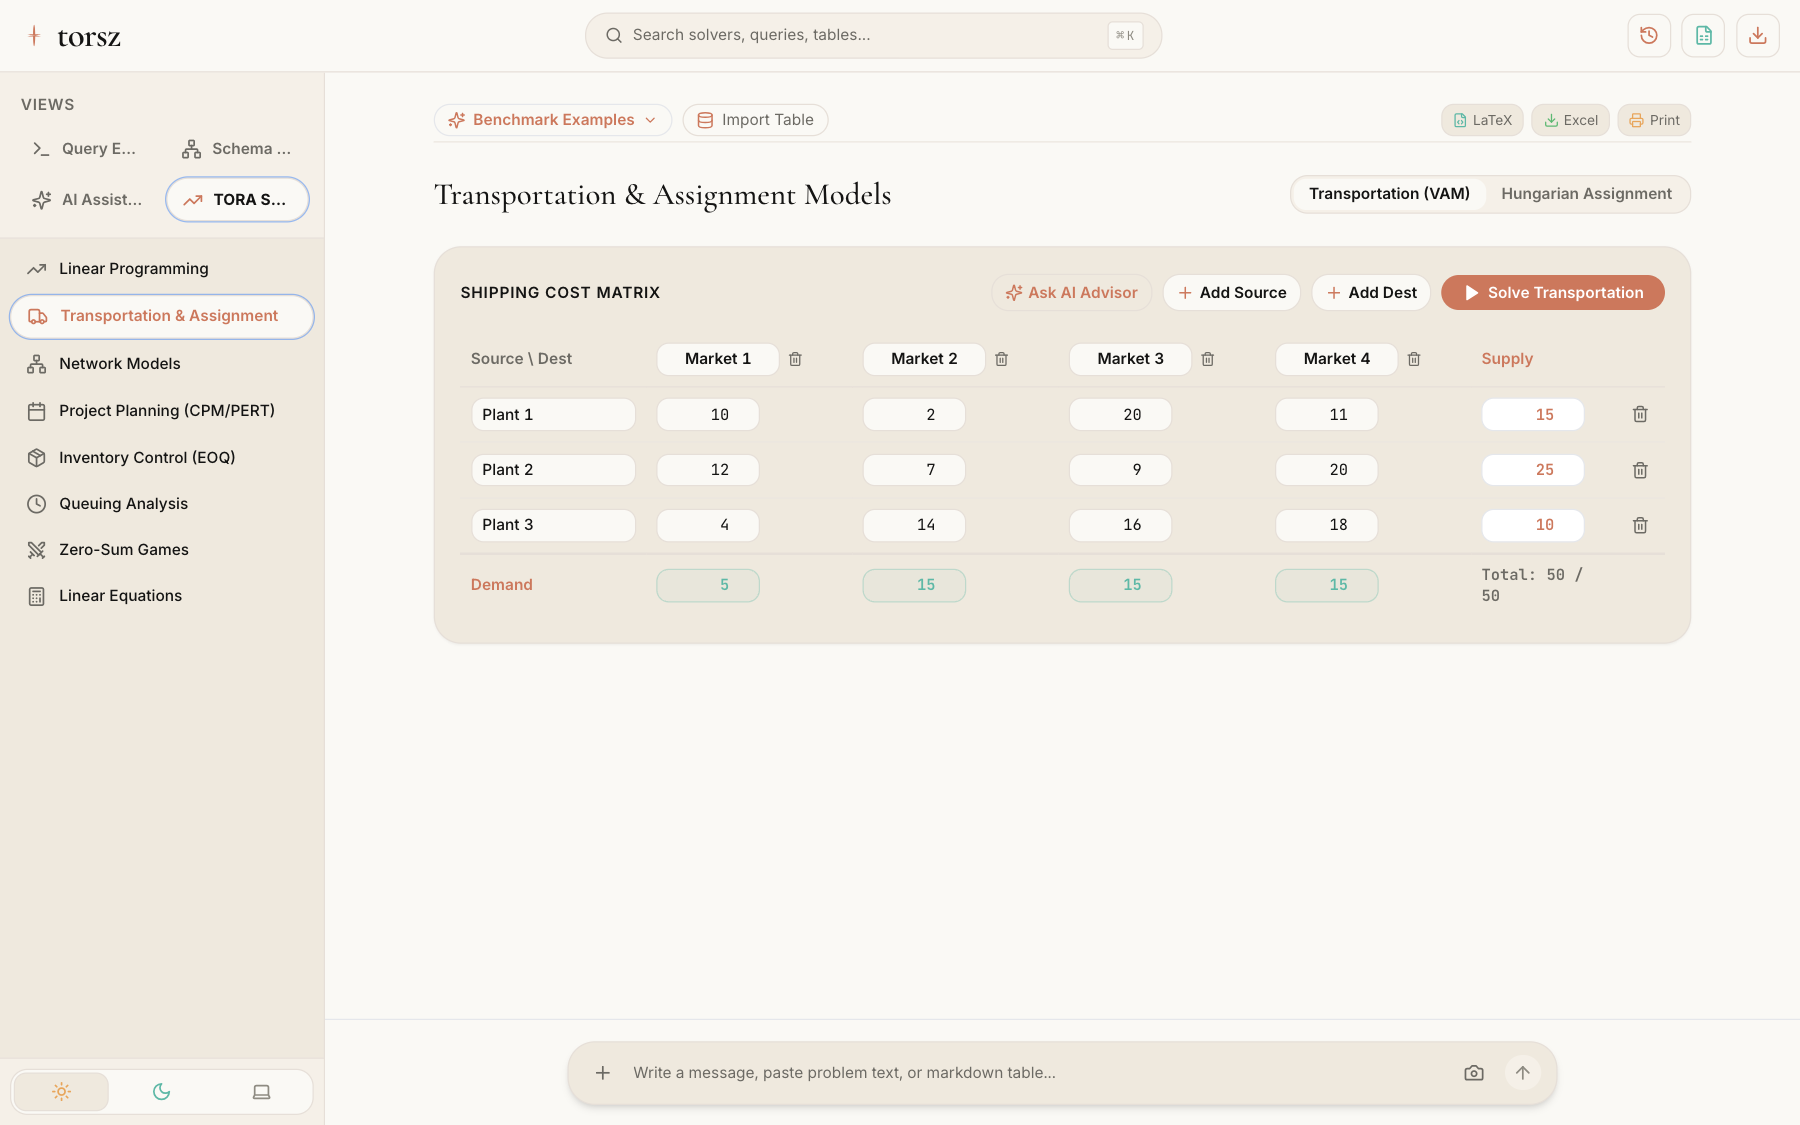
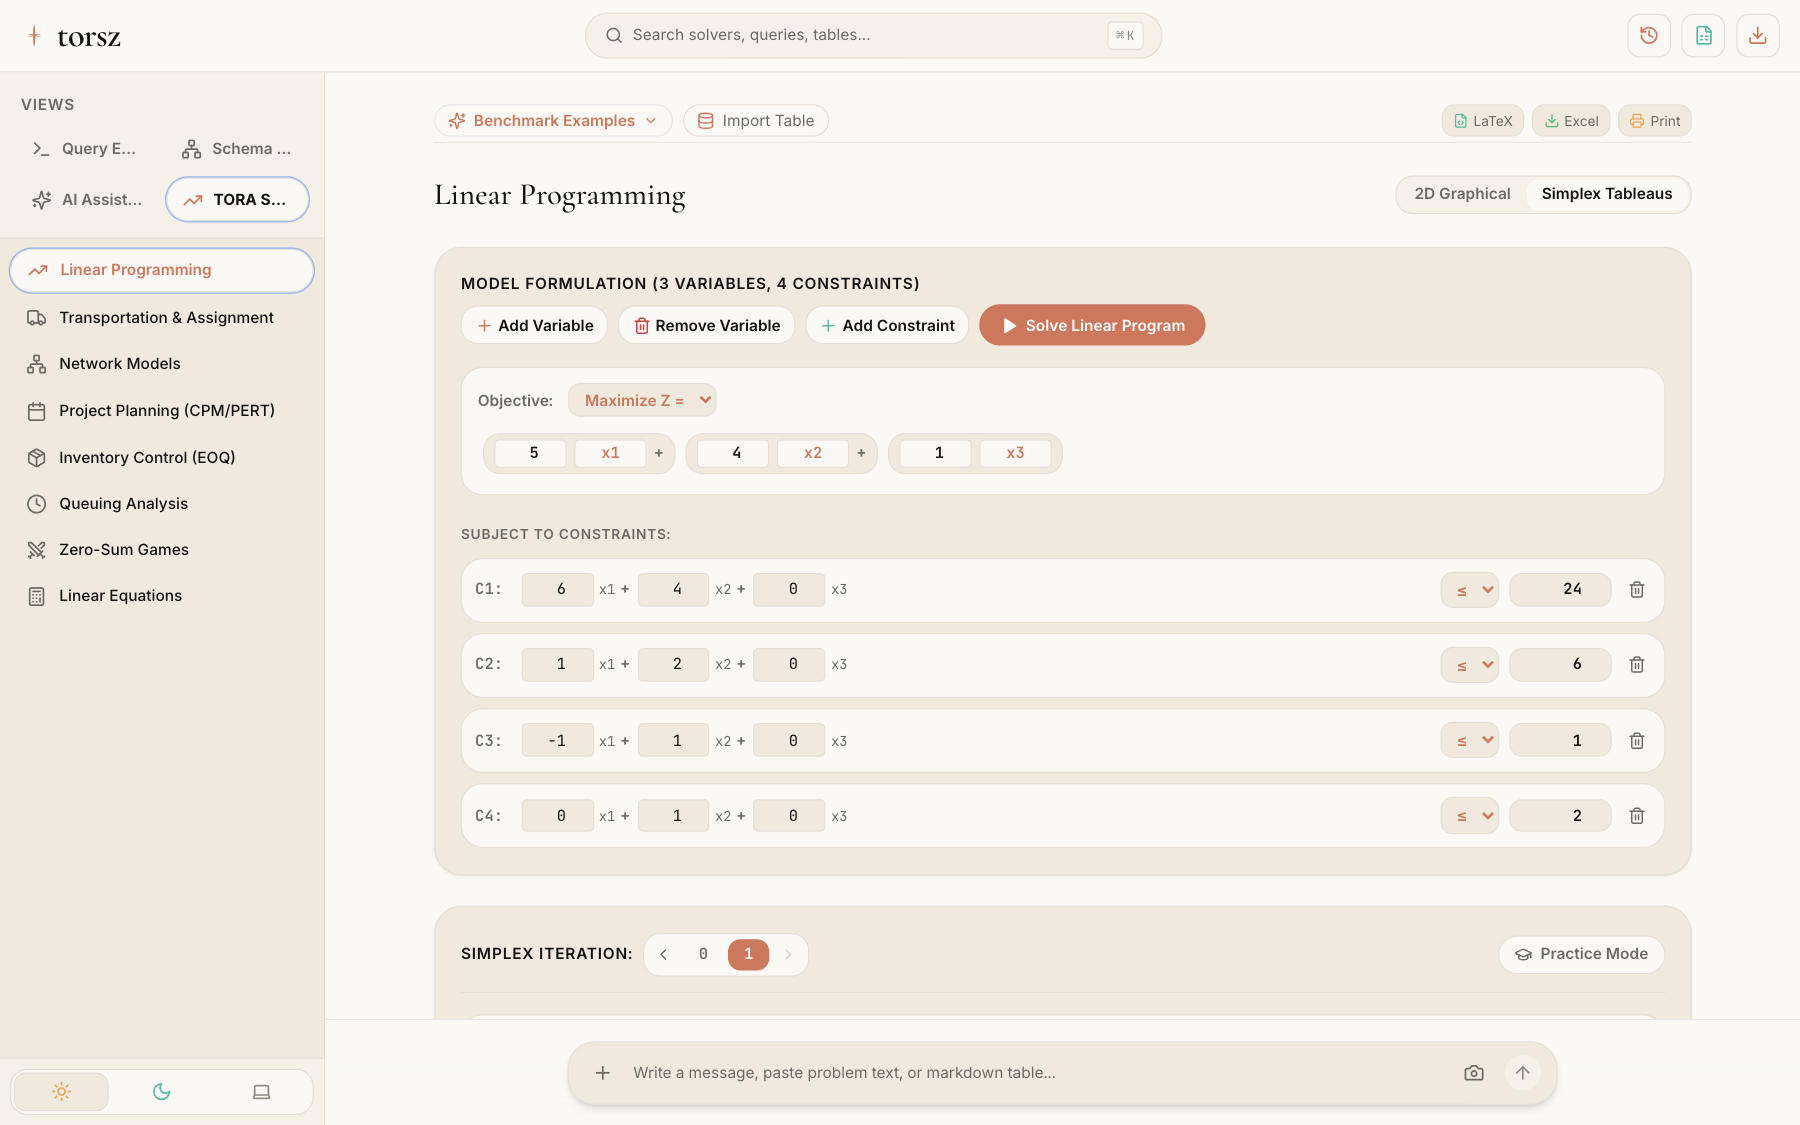
feat(lp): add dynamic N-variable and constraint controls (+Add Variable, -Remove Variable, custom variable naming), and fix Groq Vision model routing to llama-3.2-11b-vision-preview

diff --git a/src/components/OrSuiteView.tsx b/src/components/OrSuiteView.tsx
@@ -653,6 +653,71 @@ export const OrSuiteView: React.FC<OrSuiteViewProps> = ({
   };
 
 
+  // Linear Programming Dynamic Variables & Constraints
+  const addLpVariable = () => {
+    const nextIdx = lpProblem.objectiveCoefficients.length + 1;
+    const nextNames = lpProblem.variableNames
+      ? [...lpProblem.variableNames, `x${nextIdx}`]
+      : Array.from({ length: nextIdx }, (_, i) => `x${i + 1}`);
+    const nextObj = [...lpProblem.objectiveCoefficients, 1];
+    const nextConstraints = lpProblem.constraints.map((c) => ({
+      ...c,
+      coefficients: [...c.coefficients, 0],
+    }));
+    setLpProblem({
+      ...lpProblem,
+      objectiveCoefficients: nextObj,
+      variableNames: nextNames,
+      constraints: nextConstraints,
+    });
+    if (nextObj.length > 2) {
+      setLpMode("simplex-tableau");
+    }
+  };
+
+  const removeLpVariable = () => {
+    if (lpProblem.objectiveCoefficients.length <= 2) return;
+    const nextObj = lpProblem.objectiveCoefficients.slice(0, -1);
+    const nextNames = lpProblem.variableNames?.slice(0, -1);
+    const nextConstraints = lpProblem.constraints.map((c) => ({
+      ...c,
+      coefficients: c.coefficients.slice(0, -1),
+    }));
+    setLpProblem({
+      ...lpProblem,
+      objectiveCoefficients: nextObj,
+      variableNames: nextNames,
+      constraints: nextConstraints,
+    });
+  };
+
+  const updateLpVariableName = (varIdx: number, name: string) => {
+    const nextNames = lpProblem.variableNames
+      ? [...lpProblem.variableNames]
+      : Array.from({ length: lpProblem.objectiveCoefficients.length }, (_, i) => `x${i + 1}`);
+    nextNames[varIdx] = name;
+    setLpProblem({ ...lpProblem, variableNames: nextNames });
+  };
+
+  const addLpConstraint = () => {
+    const numVars = lpProblem.objectiveCoefficients.length;
+    setLpProblem({
+      ...lpProblem,
+      constraints: [
+        ...lpProblem.constraints,
+        { coefficients: Array(numVars).fill(0), operator: "<=", rhs: 10 },
+      ],
+    });
+  };
+
+  const removeLpConstraint = (idx: number) => {
+    if (lpProblem.constraints.length <= 1) return;
+    setLpProblem({
+      ...lpProblem,
+      constraints: lpProblem.constraints.filter((_, i) => i !== idx),
+    });
+  };
+
   // Execution Triggers
   const handleSolveLp = () => {
     try {
@@ -662,7 +727,6 @@ export const OrSuiteView: React.FC<OrSuiteViewProps> = ({
       alert(`LP Solver error: ${err instanceof Error ? err.message : String(err)}`);
     }
   };
-
   const handleSolveTransportation = () => {
     try {
       const sol = solveTransportation(transProblem);
@@ -1182,30 +1246,37 @@ export const OrSuiteView: React.FC<OrSuiteViewProps> = ({
                 </div>
               </div>
               <div className="bg-surface-card border border-hairline rounded-2xl p-5 shadow-sm space-y-4">
-                <div className="flex items-center justify-between">
+                <div className="flex flex-wrap items-center justify-between gap-2">
                   <h4 className="text-xs font-semibold uppercase tracking-wider text-ink">
-                    Model Formulation
+                    Model Formulation ({lpProblem.objectiveCoefficients.length} Variables, {lpProblem.constraints.length} Constraints)
                   </h4>
-                  <div className="flex items-center gap-2">
-                    {onAskAi && (
+                  <div className="flex flex-wrap items-center gap-2">
+                    <button
+                      onClick={addLpVariable}
+                      className="flex items-center gap-1 bg-canvas hover:bg-surface-cream text-ink text-xs font-semibold px-2.5 py-1.5 rounded-lg border border-hairline transition-colors shadow-2xs"
+                      title="Add decision variable"
+                    >
+                      <Plus className="w-3.5 h-3.5 text-primary" />
+                      <span>Add Variable</span>
+                    </button>
+                    {lpProblem.objectiveCoefficients.length > 2 && (
                       <button
-                        onClick={() =>
-                          onAskAi(
-                            `Analyze this Linear Program: Maximize Z = ${lpProblem.objectiveCoefficients[0]}*x1 + ${
-                              lpProblem.objectiveCoefficients[1]
-                            }*x2 subject to constraints. Current optimal objective Z* = ${
-                              lpSol?.objectiveValue || 21
-                            }. Explain binding constraints, shadow prices, and capacity investments.`
-                          )
-                        }
-                        className="flex items-center gap-1 bg-canvas hover:bg-surface-cream text-primary text-xs font-semibold px-3 py-2 rounded-xl border border-hairline transition-colors shadow-2xs"
+                        onClick={removeLpVariable}
+                        className="flex items-center gap-1 bg-canvas hover:bg-surface-cream text-ink text-xs font-semibold px-2.5 py-1.5 rounded-lg border border-hairline transition-colors shadow-2xs"
+                        title="Remove last variable"
                       >
-                        <Sparkles className="w-3.5 h-3.5" />
-                        <span>Ask AI Advisor</span>
+                        <Trash2 className="w-3.5 h-3.5 text-error" />
+                        <span>Remove Variable</span>
                       </button>
                     )}
-
-
+                    <button
+                      onClick={addLpConstraint}
+                      className="flex items-center gap-1 bg-canvas hover:bg-surface-cream text-ink text-xs font-semibold px-2.5 py-1.5 rounded-lg border border-hairline transition-colors shadow-2xs"
+                      title="Add constraint equation"
+                    >
+                      <Plus className="w-3.5 h-3.5 text-accent-teal" />
+                      <span>Add Constraint</span>
+                    </button>
                     <button
                       onClick={handleSolveLp}
                       className="flex items-center gap-1.5 bg-primary hover:bg-primary-active text-on-primary text-xs font-semibold px-4 py-2 rounded-xl transition-colors shadow-2xs"
@@ -1217,83 +1288,92 @@ export const OrSuiteView: React.FC<OrSuiteViewProps> = ({
                 </div>
 
                 {/* Objective Function Input */}
-                <div className="p-3 bg-canvas border border-hairline rounded-xl flex items-center gap-3 text-xs">
-                  <span className="font-semibold text-muted">Objective:</span>
-                  <select
-                    value={lpProblem.objective}
-                    onChange={(e) =>
-                      setLpProblem({ ...lpProblem, objective: e.target.value as "max" | "min" })
-                    }
-                    className="bg-surface-card border border-hairline rounded-md px-2 py-1 text-xs font-semibold text-primary focus:outline-none"
-                  >
-                    <option value="max">Maximize Z =</option>
-                    <option value="min">Minimize Z =</option>
-                  </select>
-                  <div className="flex items-center gap-2 font-mono">
-                    <input
-                      type="number"
-                      value={lpProblem.objectiveCoefficients[0]}
-                      onChange={(e) => {
-                        const val = parseFloat(e.target.value) || 0;
-                        setLpProblem({
-                          ...lpProblem,
-                          objectiveCoefficients: [val, lpProblem.objectiveCoefficients[1]],
-                        });
-                      }}
-                      className="w-16 px-2 py-1 bg-surface-card border border-hairline rounded-md text-right font-bold text-ink"
-                    />
-                    <span>x₁ +</span>
-                    <input
-                      type="number"
-                      value={lpProblem.objectiveCoefficients[1]}
-                      onChange={(e) => {
-                        const val = parseFloat(e.target.value) || 0;
-                        setLpProblem({
-                          ...lpProblem,
-                          objectiveCoefficients: [lpProblem.objectiveCoefficients[0], val],
-                        });
-                      }}
-                      className="w-16 px-2 py-1 bg-surface-card border border-hairline rounded-md text-right font-bold text-ink"
-                    />
-                    <span>x₂</span>
+                <div className="p-3 bg-canvas border border-hairline rounded-xl space-y-2 text-xs">
+                  <div className="flex items-center gap-3">
+                    <span className="font-semibold text-muted">Objective:</span>
+                    <select
+                      value={lpProblem.objective}
+                      onChange={(e) =>
+                        setLpProblem({ ...lpProblem, objective: e.target.value as "max" | "min" })
+                      }
+                      className="bg-surface-card border border-hairline rounded-md px-2 py-1 text-xs font-semibold text-primary focus:outline-none"
+                    >
+                      <option value="max">Maximize Z =</option>
+                      <option value="min">Minimize Z =</option>
+                    </select>
+                  </div>
+
+                  <div className="flex flex-wrap items-center gap-2 font-mono overflow-x-auto p-1">
+                    {lpProblem.objectiveCoefficients.map((coef, varIdx) => {
+                      const vName = lpProblem.variableNames?.[varIdx] || `x${varIdx + 1}`;
+                      const isLast = varIdx === lpProblem.objectiveCoefficients.length - 1;
+
+                      return (
+                        <div key={varIdx} className="flex items-center gap-1.5 bg-surface-card px-2 py-1 rounded-lg border border-hairline">
+                          <input
+                            type="number"
+                            value={coef}
+                            onChange={(e) => {
+                              const val = parseFloat(e.target.value) || 0;
+                              const nextObj = [...lpProblem.objectiveCoefficients];
+                              nextObj[varIdx] = val;
+                              setLpProblem({ ...lpProblem, objectiveCoefficients: nextObj });
+                            }}
+                            className="w-14 px-1.5 py-0.5 bg-canvas border border-hairline rounded text-right font-bold text-ink text-xs outline-none focus:border-primary"
+                          />
+                          <input
+                            type="text"
+                            value={vName}
+                            onChange={(e) => updateLpVariableName(varIdx, e.target.value)}
+                            className="w-14 px-1 py-0.5 bg-canvas border border-hairline rounded text-center text-primary font-bold text-xs outline-none focus:border-primary"
+                          />
+                          {!isLast && <span className="text-muted font-bold">+</span>}
+                        </div>
+                      );
+                    })}
                   </div>
                 </div>
 
                 {/* Constraints Inputs */}
                 <div className="space-y-2">
-                  <span className="text-[11px] font-semibold text-muted uppercase">
+                  <span className="text-[11px] font-semibold text-muted uppercase tracking-wider">
                     Subject to Constraints:
                   </span>
                   {lpProblem.constraints.map((c, idx) => (
                     <div
                       key={idx}
-                      className="p-2.5 bg-canvas border border-hairline rounded-xl flex items-center gap-2 text-xs font-mono"
+                      className="p-2.5 bg-canvas border border-hairline rounded-xl flex flex-wrap items-center gap-2 text-xs font-mono"
                     >
-                      <span className="text-muted w-8">C{idx + 1}:</span>
-                      <input
-                        type="number"
-                        value={c.coefficients[0] || 0}
-                        onChange={(e) => {
-                          const val = parseFloat(e.target.value) || 0;
-                          const next = [...lpProblem.constraints];
-                          next[idx] = { ...next[idx], coefficients: [val, next[idx].coefficients[1] || 0] };
-                          setLpProblem({ ...lpProblem, constraints: next });
-                        }}
-                        className="w-16 px-2 py-1 bg-surface-card border border-hairline rounded-md text-right text-ink"
-                      />
-                      <span>x₁ +</span>
-                      <input
-                        type="number"
-                        value={c.coefficients[1] || 0}
-                        onChange={(e) => {
-                          const val = parseFloat(e.target.value) || 0;
-                          const next = [...lpProblem.constraints];
-                          next[idx] = { ...next[idx], coefficients: [next[idx].coefficients[0] || 0, val] };
-                          setLpProblem({ ...lpProblem, constraints: next });
-                        }}
-                        className="w-16 px-2 py-1 bg-surface-card border border-hairline rounded-md text-right text-ink"
-                      />
-                      <span>x₂</span>
+                      <span className="text-muted w-7 font-bold">C{idx + 1}:</span>
+                      <div className="flex flex-wrap items-center gap-1.5 flex-1 overflow-x-auto">
+                        {lpProblem.objectiveCoefficients.map((_, varIdx) => {
+                          const vName = lpProblem.variableNames?.[varIdx] || `x${varIdx + 1}`;
+                          const isLast = varIdx === lpProblem.objectiveCoefficients.length - 1;
+                          const coefVal = c.coefficients[varIdx] !== undefined ? c.coefficients[varIdx] : 0;
+
+                          return (
+                            <div key={varIdx} className="flex items-center gap-1">
+                              <input
+                                type="number"
+                                value={coefVal}
+                                onChange={(e) => {
+                                  const val = parseFloat(e.target.value) || 0;
+                                  const nextConstraints = [...lpProblem.constraints];
+                                  const nextRowCoeffs = [...(nextConstraints[idx].coefficients || [])];
+                                  while (nextRowCoeffs.length < lpProblem.objectiveCoefficients.length) nextRowCoeffs.push(0);
+                                  nextRowCoeffs[varIdx] = val;
+                                  nextConstraints[idx] = { ...nextConstraints[idx], coefficients: nextRowCoeffs };
+                                  setLpProblem({ ...lpProblem, constraints: nextConstraints });
+                                }}
+                                className="w-14 px-1.5 py-1 bg-surface-card border border-hairline rounded text-right text-ink outline-none focus:border-primary text-xs"
+                              />
+                              <span className="text-[11px] text-muted">{vName}</span>
+                              {!isLast && <span className="text-muted font-bold">+</span>}
+                            </div>
+                          );
+                        })}
+                      </div>
+
                       <select
                         value={c.operator}
                         onChange={(e) => {
@@ -1301,12 +1381,13 @@ export const OrSuiteView: React.FC<OrSuiteViewProps> = ({
                           next[idx] = { ...next[idx], operator: e.target.value as "<=" | ">=" | "=" };
                           setLpProblem({ ...lpProblem, constraints: next });
                         }}
-                        className="bg-surface-card border border-hairline rounded-md px-2 py-1 font-semibold text-primary"
+                        className="bg-surface-card border border-hairline rounded-md px-2 py-1 font-semibold text-primary outline-none"
                       >
                         <option value="<=">≤</option>
                         <option value=">=">≥</option>
                         <option value="=">=</option>
                       </select>
+
                       <input
                         type="number"
                         value={c.rhs}
@@ -1316,8 +1397,18 @@ export const OrSuiteView: React.FC<OrSuiteViewProps> = ({
                           next[idx] = { ...next[idx], rhs: val };
                           setLpProblem({ ...lpProblem, constraints: next });
                         }}
-                        className="w-20 px-2 py-1 bg-surface-card border border-hairline rounded-md text-right font-bold text-ink"
+                        className="w-20 px-2 py-1 bg-surface-card border border-hairline rounded-md text-right font-bold text-ink outline-none focus:border-primary text-xs"
                       />
+
+                      {lpProblem.constraints.length > 1 && (
+                        <button
+                          onClick={() => removeLpConstraint(idx)}
+                          className="p-1 text-muted hover:text-error rounded transition-colors"
+                          title="Delete constraint"
+                        >
+                          <Trash2 className="w-3.5 h-3.5" />
+                        </button>
+                      )}
                     </div>
                   ))}
                 </div>

diff --git a/src/services/ocr.ts b/src/services/ocr.ts
@@ -261,14 +261,16 @@ async function callGroqVision(
   settings: AiSettings,
   targetHint?: { module?: OrModule; networkSubtype?: NetworkSubtype; transSubtype?: TransSubtype }
 ): Promise<OcrProblemClassification> {
-  const modelName = settings.model || "qwen/qwen3.8-27b";
+  const modelName = settings.model && settings.model.includes("vision")
+    ? settings.model
+    : "llama-3.2-11b-vision-preview";
   const prompt = targetHint?.module
     ? `Analyze and extract all Operations Research problem parameters from this question image. Note: The problem type is specified as "${targetHint.module}"${targetHint.networkSubtype ? ` (subtype: ${targetHint.networkSubtype})` : ""}${targetHint.transSubtype ? ` (subtype: ${targetHint.transSubtype})` : ""}.`
     : "Analyze and extract all Operations Research problem parameters from this question image.";
+
   const response = await fetch("https://api.groq.com/openai/v1/chat/completions", {
     method: "POST",
     headers: {
-      "Content-Type": "application/json",
       Authorization: `Bearer ${settings.apiKey}`,
     },
     body: JSON.stringify({
